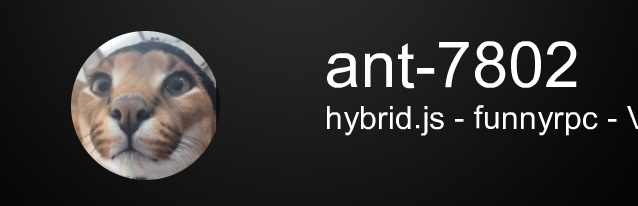
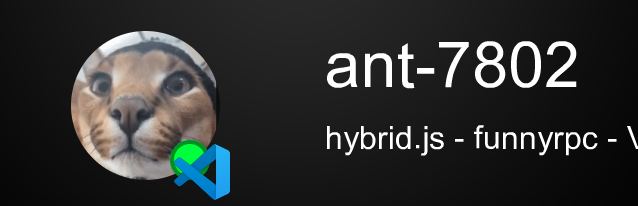
almost done with test build

Changed region(s): [[0.5063, 0.4951, 1.0, 0.7573], [0.268, 0.6699, 0.3871, 0.9612]]

diff --git a/hybrid.js b/hybrid.js
@@ -4,27 +4,27 @@ const Jimp = require("jimp");
 const path = require("path");
 const app = express();
 const port = 3000;
-
+const fs = require("fs")
 async function main() {
+    
+    var fontsans64 = await Jimp.loadFont(Jimp.FONT_SANS_64_WHITE);
+    var fontsans32 = await Jimp.loadFont(Jimp.FONT_SANS_32_WHITE);
     const ghapi = await fetch("https://api.github.com/users/ant-7802");
     const { login, id } = await ghapi.json();
     const profile = await Jimp.read(`https://avatars.githubusercontent.com/u/${id}`);
-    
+    const graycircle = (await Jimp.read(`assets/graycircle.png`)).resize(40,40);
+    const greencircle = (await Jimp.read(`assets/greencircle.png`)).resize(40,40);
     profile.resize(150, 150);
     profile.circle();
     var status = await ActiveWindow.getActiveWindow();
+    const icon = (await Jimp.read(Buffer.from(status.icon.split(",")[1],"base64url"))).resize(64,64);
     Jimp.read("background.png", async (err, background) => {
         if (err) throw err;
-        background.composite(profile, 70, 30);
-        await Jimp.loadFont(Jimp.FONT_SANS_64_WHITE).then((font) => {
-            
-            background.print(font, 325, 30, `${login}`);
-            
-        });
-        await Jimp.loadFont(Jimp.FONT_SANS_32_WHITE).then((font) => {
-            console.log(status)
-            background.print(font, 325, 120, status.title);
-        });
+        await background.composite(profile, 70, 30);
+        await background.print(fontsans64, 325, 30, `${login}`);
+        await background.print(fontsans32, 325, 120, status.title);
+        await background.composite(greencircle,170,140);
+        await background.composite(icon,170,140);
         await background.write("img.png");
     });
 
